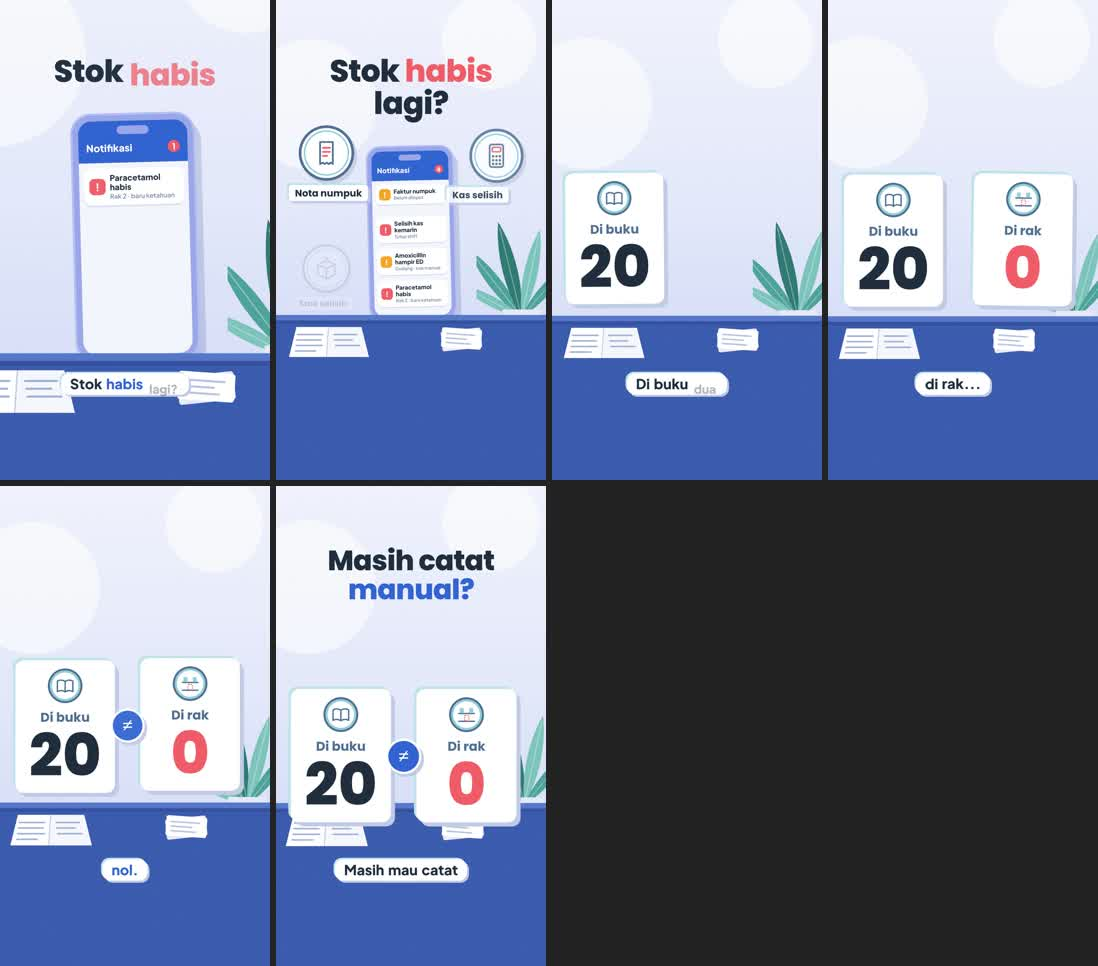
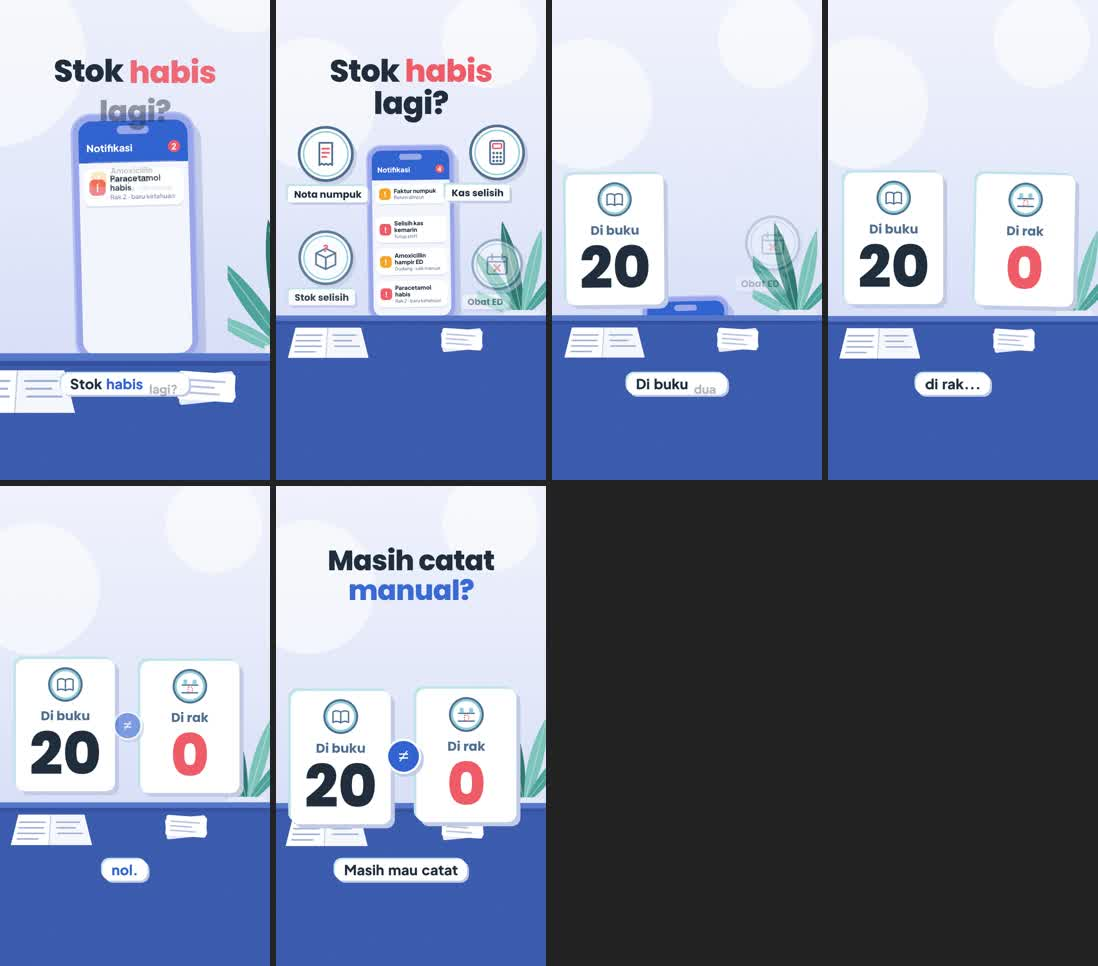
Adegan 1: jeda suara dirapatkan (8 dtk), waktu kata dikoreksi
Claude-Session: https://claude.ai/code/session_01LjuAxAQ7JbaDnFNi4q5LzL

diff --git a/apotek-digital/index.html b/apotek-digital/index.html
@@ -196,7 +196,7 @@ function subFrame(t){if(!SUB.frasa.length)return;const c=SUB.cfg;SUB.frasa.forEa
    Gerak HALUS: tanpa guncangan; semua masuk/keluar dengan ease in-out. Semua dihitung dari t.
    ===================================================================================== */
 const PI=Math.PI;
-const WAKTU={judul:.1,tarik:1.6,lenc:2.2,keluar:3.55,buku:3.95,rak:5.5,ne:6.45,tanya:7.05,tutup:8.75,dur:9.6};
+const WAKTU={judul:.1,tarik:1.15,lenc:1.35,keluar:2.4,buku:2.45,rak:3.85,ne:4.75,tanya:5.75,tutup:7.3,dur:8.0};
 const NOTIF=[['!','Paracetamol habis','Rak 2 · baru ketahuan',''],['!','Amoxicillin hampir ED','Gudang · cek manual','k'],
   ['!','Selisih kas kemarin','Tutup shift',''],['!','Faktur numpuk','Belum diinput','k']];
 const T_NOT=[.15,.55,.95,1.35];
@@ -212,8 +212,8 @@ function muncul(el,t,t0,t1=99,dy=50,d=.6){const k=E.out(seg(t,t0,t0+d)),o=E.io(s
   st(el,{opacity:(t<t0?0:k)*(1-o),transform:`translateY(${(1-k)*dy-o*60}px) scale(${.92+.08*k})`});return k*(1-o);}
 function kata(el,t,t0,t1,st0=.2){[...el.querySelectorAll('.w')].forEach((w,i)=>muncul(w,t,t0+i*st0,t1+i*.06,60,.55));}
 
-function kamera(t){const tr=E.io(seg(t,WAKTU.tarik,WAKTU.tarik+1.2)),tc=E.io(seg(t,WAKTU.tutup-.3,WAKTU.dur));
-  const z=lerp(1.42,1.0,tr)*(1+.03*seg(t,WAKTU.tarik+1.2,WAKTU.tutup))+tc*.08;
+function kamera(t){const tr=E.io(seg(t,WAKTU.tarik,WAKTU.tarik+.9)),tc=E.io(seg(t,WAKTU.tutup-.3,WAKTU.dur));
+  const z=lerp(1.42,1.0,tr)*(1+.03*seg(t,WAKTU.tarik+.9,WAKTU.tutup))+tc*.08;
   const cx=540+nz(t*.25,3)*4,cy=lerp(940,960,tr)+tc*80+nz(t*.25,8)*4;
   st($('#dunia'),{transform:`translate(${W/2}px,${H/2}px) scale(${z}) translate(${-cx}px,${-cy}px)`});}
 
@@ -226,7 +226,7 @@ function hp(t){const out=E.io(seg(t,WAKTU.keluar,WAKTU.keluar+.8));
     st(e,{top:(134+yy*128)+'px',opacity:k,transform:`translateY(${(1-k)*-30}px) scale(${.94+.06*k})`});});
   $('#badge').textContent=n;}
 
-function lencana(t){['#L0','#L2','#L1','#L3'].forEach((id,i)=>{const el=$(id),t0=WAKTU.lenc+i*.28,k=E.out(seg(t,t0,t0+.7)),o=E.io(seg(t,WAKTU.keluar-.1+i*.08,WAKTU.keluar+.5+i*.08));
+function lencana(t){['#L0','#L2','#L1','#L3'].forEach((id,i)=>{const el=$(id),t0=WAKTU.lenc+i*.15,k=E.out(seg(t,t0,t0+.5)),o=E.io(seg(t,WAKTU.keluar-.1+i*.08,WAKTU.keluar+.5+i*.08));
   const ap=Math.sin(t*1.6+i*1.3)*6;st(el,{opacity:t<t0?0:k*(1-o),transform:`translateY(${(1-k)*50+ap-o*80}px) scale(${.85+.15*k})`});});}
 
 function meja(t){[...$('#tanaman').querySelectorAll('.dn')].forEach((g,i)=>{const r=+g.dataset.r+Math.sin(t*1.1+i)*2.2;g.setAttribute('transform',`translate(180 400) rotate(${r}) scale(${g.dataset.s})`);});}
@@ -244,8 +244,8 @@ const SCENE={
   kata:null,
   sub:{gaya:'pil',font:"800 56px 'Plus Jakarta Sans'",warna:'#1F2D3D',aksen:'#3163D1',kunci:['habis','nol','manual'],maks:3,y:.8},
   audio:{vo:[{src:'assets/audio/vo-01a.mp3',at:.1,teks:'Stok habis lagi?'},
-            {src:'assets/audio/vo-01b.mp3',at:3.95,teks:'Di buku dua puluh, di rak... nol.'},
-            {src:'assets/audio/vo-01c.mp3',at:7.15,teks:'Masih mau catat manual?'}],sfx:[],music:null},
+            {src:'assets/audio/vo-01b.mp3',at:2.35,teks:'Di buku dua puluh, di rak... nol.'},
+            {src:'assets/audio/vo-01c.mp3',at:5.7,teks:'Masih mau catat manual?'}],sfx:[],music:null},
   muat(){return Promise.all([document.fonts.load("800 60px Poppins"),document.fonts.load("700 38px Poppins"),document.fonts.load("800 30px 'Plus Jakarta Sans'"),document.fonts.load("600 20px 'Plus Jakarta Sans'")]);},
   frame(t){kamera(t);hp(t);lencana(t);meja(t);kartu(t);teks(t);tutup(t);}
 };

diff --git a/apotek-digital/scene.html b/apotek-digital/scene.html
@@ -79,7 +79,7 @@
    Gerak HALUS: tanpa guncangan; semua masuk/keluar dengan ease in-out. Semua dihitung dari t.
    ===================================================================================== */
 const PI=Math.PI;
-const WAKTU={judul:.1,tarik:1.6,lenc:2.2,keluar:3.55,buku:3.95,rak:5.5,ne:6.45,tanya:7.05,tutup:8.75,dur:9.6};
+const WAKTU={judul:.1,tarik:1.15,lenc:1.35,keluar:2.4,buku:2.45,rak:3.85,ne:4.75,tanya:5.75,tutup:7.3,dur:8.0};
 const NOTIF=[['!','Paracetamol habis','Rak 2 · baru ketahuan',''],['!','Amoxicillin hampir ED','Gudang · cek manual','k'],
   ['!','Selisih kas kemarin','Tutup shift',''],['!','Faktur numpuk','Belum diinput','k']];
 const T_NOT=[.15,.55,.95,1.35];
@@ -95,8 +95,8 @@ function muncul(el,t,t0,t1=99,dy=50,d=.6){const k=E.out(seg(t,t0,t0+d)),o=E.io(s
   st(el,{opacity:(t<t0?0:k)*(1-o),transform:`translateY(${(1-k)*dy-o*60}px) scale(${.92+.08*k})`});return k*(1-o);}
 function kata(el,t,t0,t1,st0=.2){[...el.querySelectorAll('.w')].forEach((w,i)=>muncul(w,t,t0+i*st0,t1+i*.06,60,.55));}
 
-function kamera(t){const tr=E.io(seg(t,WAKTU.tarik,WAKTU.tarik+1.2)),tc=E.io(seg(t,WAKTU.tutup-.3,WAKTU.dur));
-  const z=lerp(1.42,1.0,tr)*(1+.03*seg(t,WAKTU.tarik+1.2,WAKTU.tutup))+tc*.08;
+function kamera(t){const tr=E.io(seg(t,WAKTU.tarik,WAKTU.tarik+.9)),tc=E.io(seg(t,WAKTU.tutup-.3,WAKTU.dur));
+  const z=lerp(1.42,1.0,tr)*(1+.03*seg(t,WAKTU.tarik+.9,WAKTU.tutup))+tc*.08;
   const cx=540+nz(t*.25,3)*4,cy=lerp(940,960,tr)+tc*80+nz(t*.25,8)*4;
   st($('#dunia'),{transform:`translate(${W/2}px,${H/2}px) scale(${z}) translate(${-cx}px,${-cy}px)`});}
 
@@ -109,7 +109,7 @@ function hp(t){const out=E.io(seg(t,WAKTU.keluar,WAKTU.keluar+.8));
     st(e,{top:(134+yy*128)+'px',opacity:k,transform:`translateY(${(1-k)*-30}px) scale(${.94+.06*k})`});});
   $('#badge').textContent=n;}
 
-function lencana(t){['#L0','#L2','#L1','#L3'].forEach((id,i)=>{const el=$(id),t0=WAKTU.lenc+i*.28,k=E.out(seg(t,t0,t0+.7)),o=E.io(seg(t,WAKTU.keluar-.1+i*.08,WAKTU.keluar+.5+i*.08));
+function lencana(t){['#L0','#L2','#L1','#L3'].forEach((id,i)=>{const el=$(id),t0=WAKTU.lenc+i*.15,k=E.out(seg(t,t0,t0+.5)),o=E.io(seg(t,WAKTU.keluar-.1+i*.08,WAKTU.keluar+.5+i*.08));
   const ap=Math.sin(t*1.6+i*1.3)*6;st(el,{opacity:t<t0?0:k*(1-o),transform:`translateY(${(1-k)*50+ap-o*80}px) scale(${.85+.15*k})`});});}
 
 function meja(t){[...$('#tanaman').querySelectorAll('.dn')].forEach((g,i)=>{const r=+g.dataset.r+Math.sin(t*1.1+i)*2.2;g.setAttribute('transform',`translate(180 400) rotate(${r}) scale(${g.dataset.s})`);});}
@@ -127,8 +127,8 @@ const SCENE={
   kata:null,
   sub:{gaya:'pil',font:"800 56px 'Plus Jakarta Sans'",warna:'#1F2D3D',aksen:'#3163D1',kunci:['habis','nol','manual'],maks:3,y:.8},
   audio:{vo:[{src:'assets/audio/vo-01a.mp3',at:.1,teks:'Stok habis lagi?'},
-            {src:'assets/audio/vo-01b.mp3',at:3.95,teks:'Di buku dua puluh, di rak... nol.'},
-            {src:'assets/audio/vo-01c.mp3',at:7.15,teks:'Masih mau catat manual?'}],sfx:[],music:null},
+            {src:'assets/audio/vo-01b.mp3',at:2.35,teks:'Di buku dua puluh, di rak... nol.'},
+            {src:'assets/audio/vo-01c.mp3',at:5.7,teks:'Masih mau catat manual?'}],sfx:[],music:null},
   muat(){return Promise.all([document.fonts.load("800 60px Poppins"),document.fonts.load("700 38px Poppins"),document.fonts.load("800 30px 'Plus Jakarta Sans'"),document.fonts.load("600 20px 'Plus Jakarta Sans'")]);},
   frame(t){kamera(t);hp(t);lencana(t);meja(t);kartu(t);teks(t);tutup(t);}
 };

diff --git a/apotek-digital/kata.js b/apotek-digital/kata.js
@@ -1,2 +1,5 @@
-/* dibuat mf.py kata: perkiraan waktu kata VO (±0,15 dtk). Boleh dikoreksi manual. */
-window.KATA=[{"w": "Stok", "t0": 0.1, "t1": 0.354}, {"w": "habis", "t0": 0.355, "t1": 0.865}, {"w": "lagi?", "t0": 0.866, "t1": 1.529}, {"w": "Di", "t0": 3.95, "t1": 4.193}, {"w": "buku", "t0": 4.194, "t1": 4.682}, {"w": "dua", "t0": 4.683, "t1": 4.926}, {"w": "puluh,", "t0": 4.927, "t1": 5.562}, {"w": "di", "t0": 5.563, "t1": 5.806}, {"w": "rak...", "t0": 5.807, "t1": 6.197}, {"w": "nol.", "t0": 6.543, "t1": 7.017}, {"w": "Masih", "t0": 7.15, "t1": 7.522}, {"w": "mau", "t0": 7.523, "t1": 7.709}, {"w": "catat", "t0": 7.71, "t1": 8.082}, {"w": "manual?", "t0": 8.083, "t1": 8.568}];
+/* waktu kata VO adegan 1 — dikoreksi manual dari deteksi jeda suara */
+window.KATA=[{"w":"Stok","t0":0.2,"t1":0.45},{"w":"habis","t0":0.45,"t1":0.85},{"w":"lagi?","t0":0.85,"t1":1.38},
+{"w":"Di","t0":2.48,"t1":2.66},{"w":"buku","t0":2.66,"t1":3.05},{"w":"dua","t0":3.11,"t1":3.36},{"w":"puluh,","t0":3.36,"t1":3.78},
+{"w":"di","t0":3.82,"t1":3.95},{"w":"rak...","t0":3.95,"t1":4.59},{"w":"nol.","t0":4.77,"t1":5.2},
+{"w":"Masih","t0":5.84,"t1":6.15},{"w":"mau","t0":6.15,"t1":6.32},{"w":"catat","t0":6.32,"t1":6.65},{"w":"manual?","t0":6.65,"t1":7.09}];
